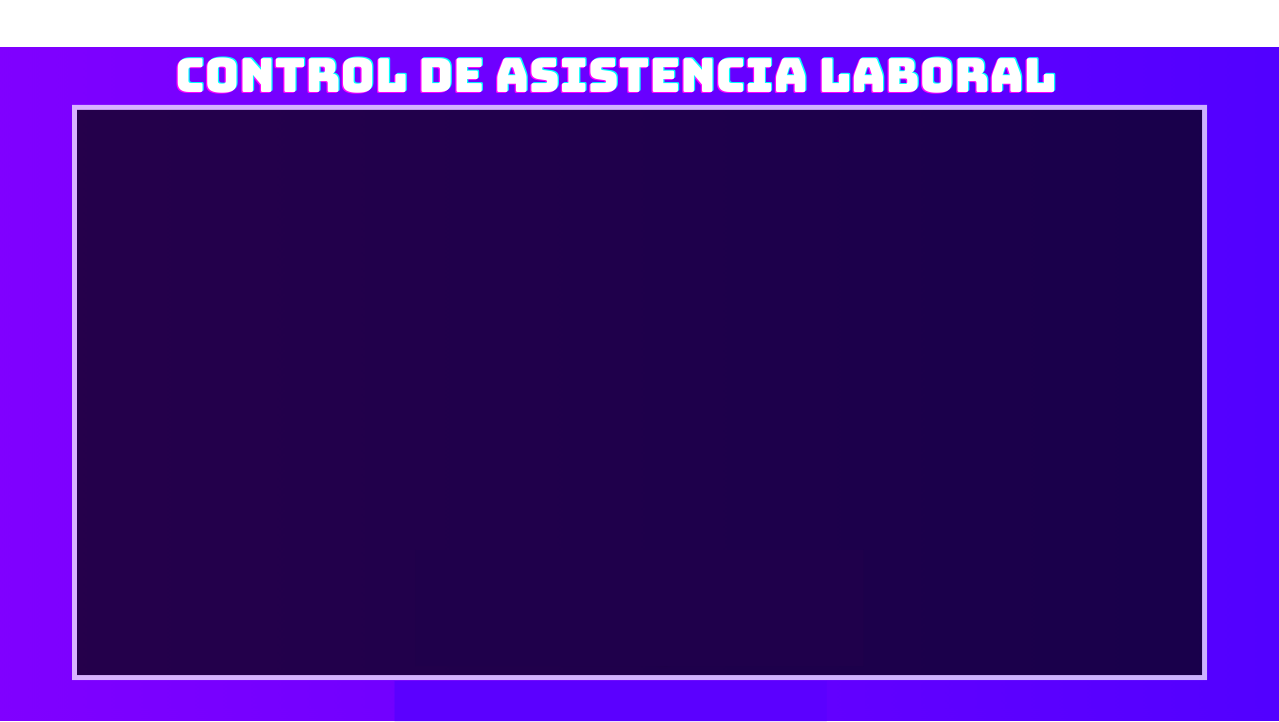
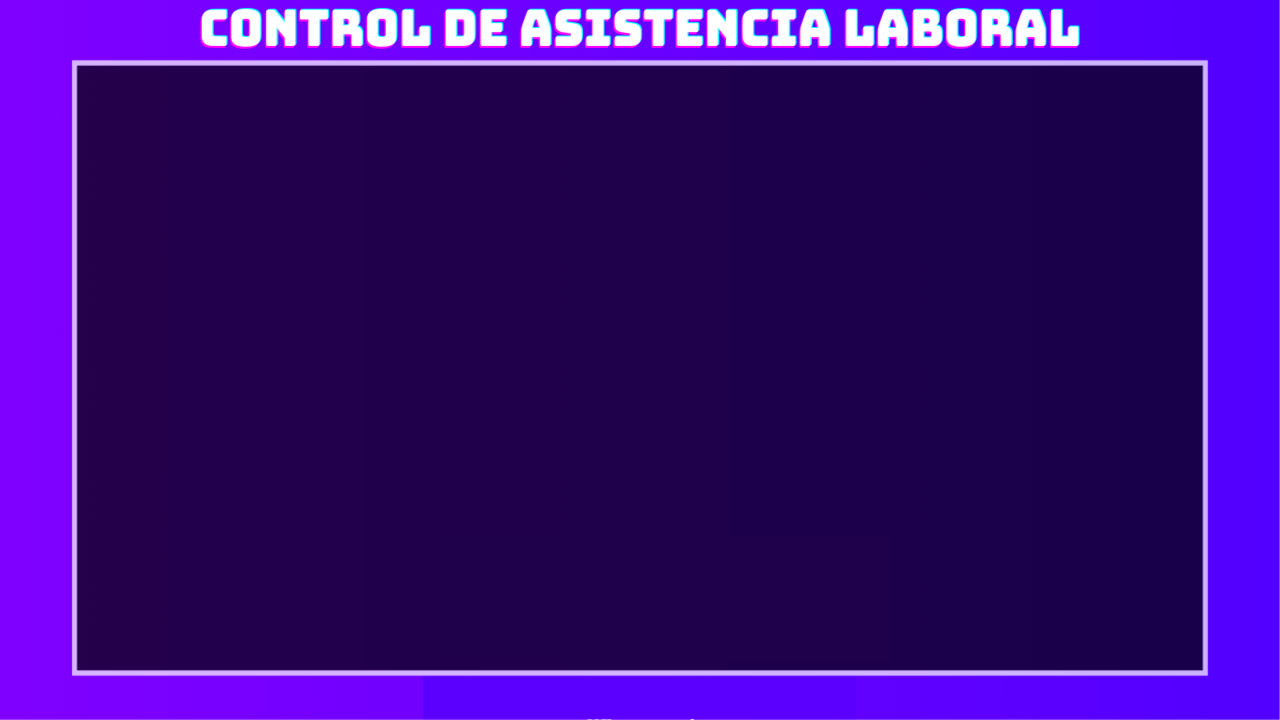
Nuevos Cambios en tabla

Changed region(s): [[0.0, 0.0, 1.0, 0.1528], [0.061, 0.9167, 0.9453, 0.9472]]

diff --git a/FaceRecognitionSystem.py b/FaceRecognitionSystem.py
@@ -130,6 +130,7 @@ def Profile():
     pantalla4 = Toplevel(pantalla)
     pantalla4.title("BIOMETRIC SIGN")
     pantalla4.geometry("1281x728")
+    pantalla4.resizable(False, False) 
 
     back = Label(pantalla4, image=imagenB, text="Back")
     back.place(x=0, y=0, relwidth=1, relheight=1)
@@ -697,6 +698,7 @@ def Sign():
     pantalla3 = Toplevel(pantalla)
     pantalla3.title("BIOMETRIC SIGN")
     pantalla3.geometry("1281x728")
+    pantalla3.resizable(False, False) 
 
     back2 = Label(pantalla3, image=imagenB, text="Back")
     back2.place(x=0, y=0, relwidth=1, relheight=1)
@@ -747,13 +749,14 @@ def Registros():
         actualizar_tabla()
 
     # Crear la nueva ventana
-    ventana_registros = Toplevel(pantalla)
-    ventana_registros.title("Registros")
-    ventana_registros.state('zoomed')  # Maximizar la ventana
+    pantalla5 = Toplevel(pantalla)
+    pantalla5.title("Registros")
+    pantalla5.geometry("1280x720")
+    pantalla5.resizable(False, False) 
 
     # Cargar la imagen de fondo
-    imagen_fondo = PhotoImage(file="./SetUp/Back2.png")
-    fondo = Label(ventana_registros, image=imagen_fondo)
+    imagen_fondo = PhotoImage(file="./SetUp/RegistroAsistencia.png")
+    fondo = Label(pantalla5, image=imagen_fondo)
     fondo.place(relwidth=1, relheight=1)
 
     # Conectar a la base de datos
@@ -769,14 +772,14 @@ def Registros():
     pagina_actual = 1
 
     # Crear el marco para centrar la tabla
-    marco_tabla = Frame(ventana_registros, bg='white')
-    marco_tabla.place(relx=0.5, rely=0.5, anchor=CENTER, width=1000, height=500)
+    marco_tabla = Frame(pantalla5, bg='white')
+    marco_tabla.place(relx=0.5, rely=0.51, anchor=CENTER, width=1128, height=605)
 
     # ComboBox para seleccionar la cantidad de registros por página
-    combo = ttk.Combobox(ventana_registros, values=[10, 50, 100], state="readonly", width=5)
+    combo = ttk.Combobox(pantalla5, values=[10, 50, 100], state="readonly", width=5)
     combo.current(0)
     combo.bind("<<ComboboxSelected>>", cambiar_registros_por_pagina)
-    combo.place(relx=0.85, rely=0.1, anchor=NE)
+    combo.place(relx=0.945, rely=0.06, anchor=NE)
 
     # Agregar barras de desplazamiento
     scroll_x = Scrollbar(marco_tabla, orient=HORIZONTAL)
@@ -805,21 +808,21 @@ def Registros():
     tree.pack(expand=YES, fill=BOTH)
 
     # Crear un marco para los botones de navegación
-    marco_botones = Frame(ventana_registros, bg=ventana_registros.cget('bg'))  # Establecer el color de fondo del marco igual al color de fondo de la ventana
+    marco_botones = Frame(pantalla5, bg=pantalla5.cget('bg'))  # Establecer el color de fondo del marco igual al color de fondo de la ventana
     marco_botones.place(relx=0.5, rely=0.95, anchor=CENTER)
 
     # Botones de navegación
-    btn_anterior = Button(marco_botones, text="<< Anterior ", command=anterior_pagina, bg=ventana_registros.cget('bg'), bd=0)  # Establecer el color de fondo del botón igual al color de fondo de la ventana y eliminar el borde
+    btn_anterior = Button(marco_botones, text="<< Anterior ", command=anterior_pagina, bg=pantalla5.cget('bg'), bd=0)  # Establecer el color de fondo del botón igual al color de fondo de la ventana y eliminar el borde
     btn_anterior.pack(side=LEFT, padx=10)
 
-    btn_siguiente = Button(marco_botones, text="Siguiente >>", command=siguiente_pagina, bg=ventana_registros.cget('bg'), bd=0)  # Establecer el color de fondo del botón igual al color de fondo de la ventana y eliminar el borde
+    btn_siguiente = Button(marco_botones, text="Siguiente >>", command=siguiente_pagina, bg=pantalla5.cget('bg'), bd=0)  # Establecer el color de fondo del botón igual al color de fondo de la ventana y eliminar el borde
     btn_siguiente.pack(side=LEFT, padx=10)
 
     # Inicializar la tabla con los primeros registros
     actualizar_tabla()
 
     # Mantener la referencia de la imagen de fondo
-    ventana_registros.image = imagen_fondo
+    pantalla5.image = imagen_fondo
 
     # Cerrar la conexión a la base de datos
     conn.close()
@@ -884,6 +887,8 @@ def Log():
             pantalla2 = Toplevel(pantalla)
             pantalla2.title("BIOMETRIC REGISTER")
             pantalla2.geometry("1280x720")
+            pantalla2.resizable(False, False) 
+            
 
             back = Label(pantalla2, image=imagenB, text="Back")
             back.place(x=0, y=0, relwidth=1, relheight=1)
@@ -987,7 +992,8 @@ def cargar_datos():
 # Ventana principal
 pantalla = Tk()
 pantalla.title("FACE RECOGNITION SYSTEM")
-pantalla.geometry("1280x753")
+pantalla.geometry("1280x720")
+pantalla.resizable(False, False) 
 
 # Fondo
 imagenF = PhotoImage(file="./SetUp/Inicio.png")
@@ -1003,48 +1009,48 @@ imagenB = PhotoImage(file="./SetUp/Back2.png")
 # DNI
 validate_num = pantalla.register(validar_numero)
 InputDNIReg = Entry(pantalla, validate="key", validatecommand=(validate_num, '%S'),font=("Arial", 12))
-InputDNIReg.place(x= 250, y = 310)
+InputDNIReg.place(x= 250, y = 300)
 
 # Botón para cargar datos
 BtCargar = Button(pantalla, text="Cargar Data", command=cargar_datos,bg="grey",
                   highlightbackground="red",highlightthickness=2,fg="red",font=("Helvetica",8, "bold"))
-BtCargar.place(x=450, y=310)
+BtCargar.place(x=450, y=300)
 
 # Names
 InputNameReg = Entry(pantalla,font=("Arial", 12))
-InputNameReg.place(x= 250, y = 370)
+InputNameReg.place(x= 250, y = 360)
 
 # ApellPat
 InputApellPReg = Entry(pantalla,font=("Arial", 12))
-InputApellPReg.place(x= 250, y = 430)
+InputApellPReg.place(x= 250, y = 410)
 
 # ApetMat
 InputApellMReg = Entry(pantalla,font=("Arial", 12))
-InputApellMReg.place(x= 250, y = 490)
+InputApellMReg.place(x= 250, y = 465)
 
 # User
 InputUserReg = Entry(pantalla,font=("Arial", 12))
-InputUserReg.place(x= 250, y = 550)
+InputUserReg.place(x= 250, y = 530)
 
 # Pass
 InputPassReg = Entry(pantalla, font=("Arial", 12), show='*')
-InputPassReg.place(x= 250, y = 610)
+InputPassReg.place(x= 250, y = 580)
 
 # Botones
 # Registro
 imagenBR = PhotoImage(file="./SetUp/BtSign.png")
 BtReg = Button(pantalla, text="Registro", image=imagenBR, height="40", width="200", command=Log,highlightbackground="red",highlightthickness=2)
-BtReg.place(x = 160, y = 670)
+BtReg.place(x = 160, y = 645)
 
 # Inicio de sesion
 imagenBL = PhotoImage(file="./SetUp/BtLogin.png")
 BtSign = Button(pantalla, text="Sign", image=imagenBL, height="40", width="200", command=Sign,highlightbackground="red",highlightthickness=2)
-BtSign.place(x = 610, y = 670)
+BtSign.place(x = 610, y = 645)
 
 # VER REGISTROS
 imagenBT = PhotoImage(file="./SetUp/Asistencia.png")
 BtTbl = Button(pantalla, text="Sign", image=imagenBT, height="40", width="200", command=Registros,highlightbackground="red",highlightthickness=2)
-BtTbl.place(x = 955, y = 670)
+BtTbl.place(x = 955, y = 645)
 
 # Eject
 pantalla.mainloop()
